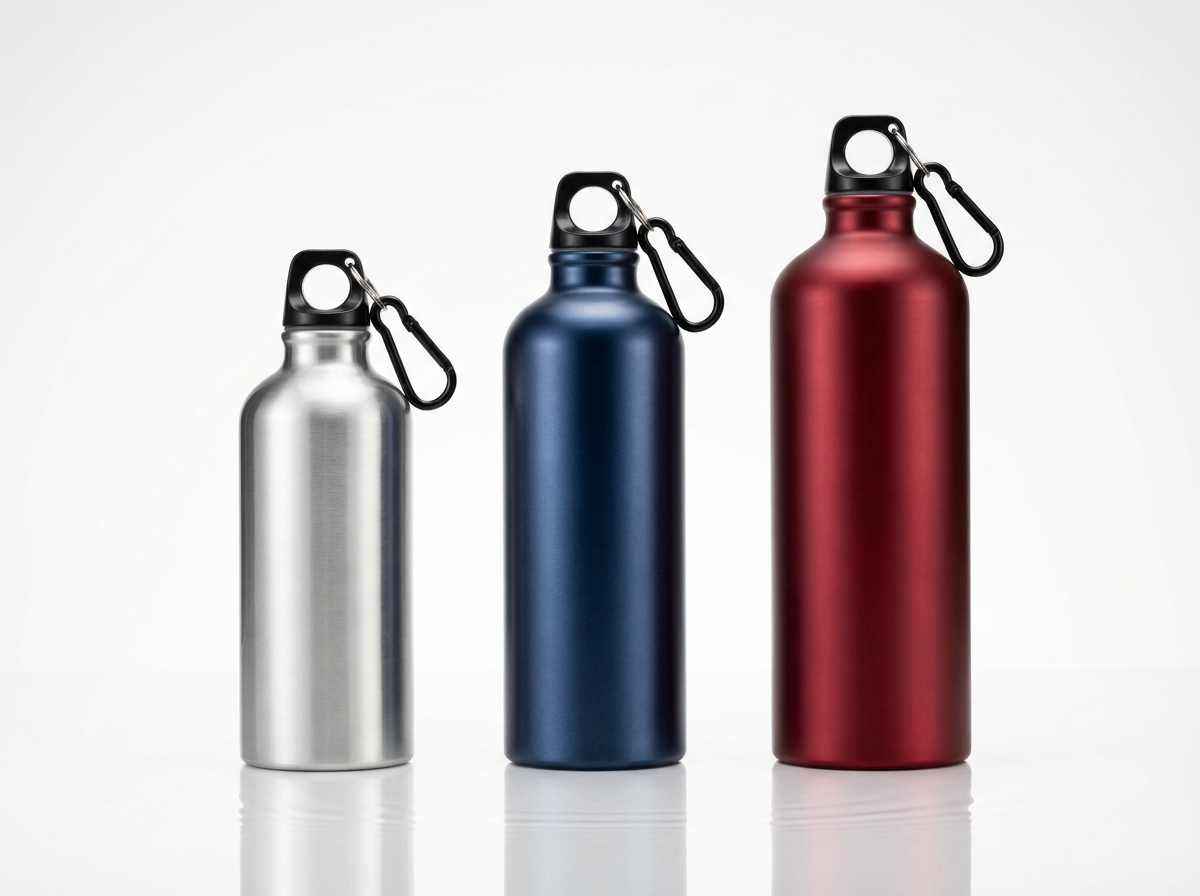
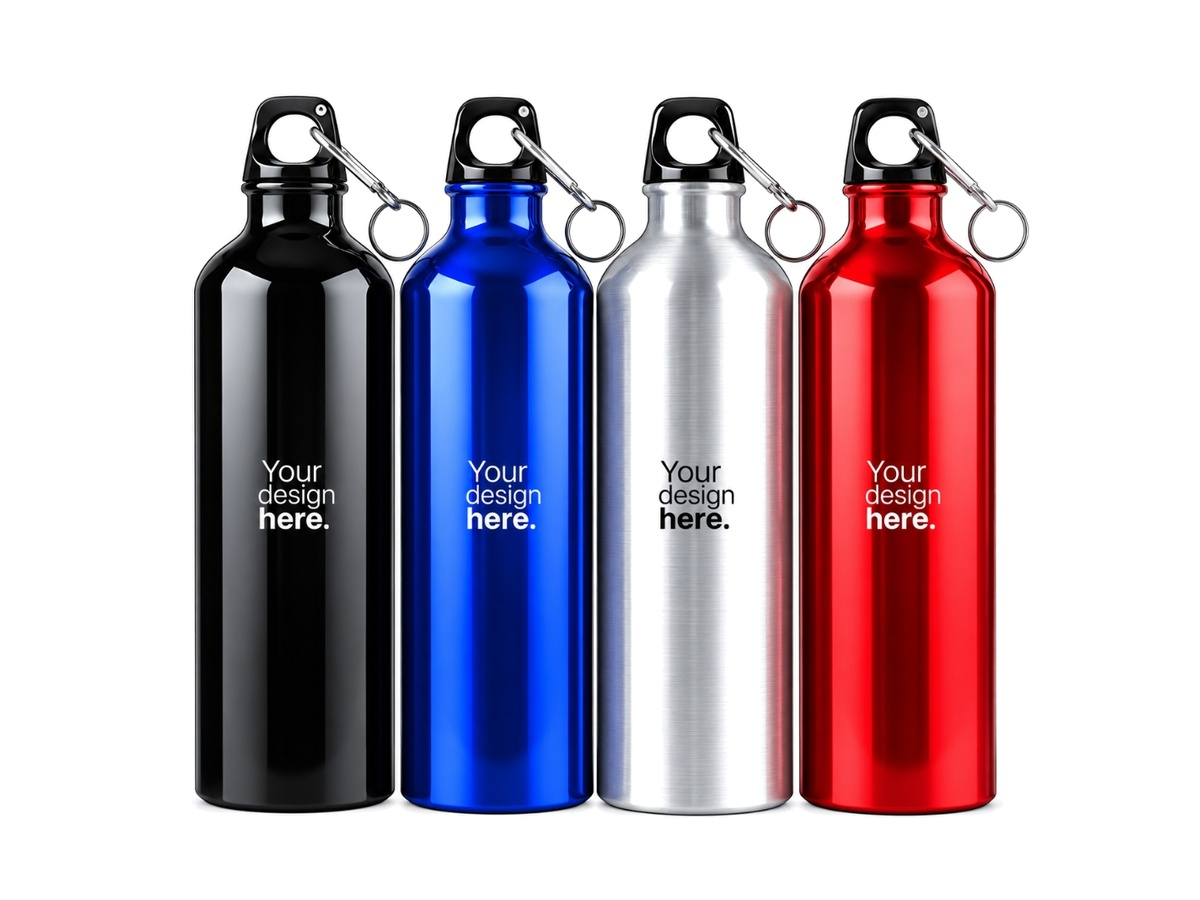
fix: update sports and lifestyle aluminium bottles image with 4-bottle carabiner lineup and perfect 2-column grid alignment

diff --git a/pages/products/water-bottles/index.html b/pages/products/water-bottles/index.html
@@ -167,7 +167,7 @@
         <p class="om-section-subtitle">Select a product type to view technical specifications, capacity ranges, and closure configurations.</p>
       </div>
 
-      <div class="om-products-grid">
+      <div class="om-products-grid om-products-grid-2">
 
         <!-- Product 1 -->
         <article class="om-product-card">
@@ -205,8 +205,8 @@
             <p class="om-product-desc">Ergonomic water packaging bottle engineered for gym, travel, sports, and outdoor activities.</p>
             <div class="om-product-sizes-preview">
               <span class="om-size-pill-mini">500ml - 750ml</span>
-              <span class="om-size-pill-mini">Ergonomic Grip</span>
-              <span class="om-size-pill-mini">Sports Pull Cap</span>
+              <span class="om-size-pill-mini">Multi-Colour Lineup</span>
+              <span class="om-size-pill-mini">Carabiner Loop Cap</span>
             </div>
             <div class="om-product-actions">
               <button type="button" class="om-btn-card-detail" data-open-product="water-sports-lifestyle">View Details</button>

diff --git a/data/products-data.js b/data/products-data.js
@@ -231,13 +231,13 @@ export const PRODUCTS = [
     id: 'water-sports-lifestyle',
     categorySlug: 'water-bottles',
     name: 'Sports & Lifestyle Aluminium Bottle',
-    shortDesc: 'Ergonomic water packaging bottle engineered for gym, travel, sports, and outdoor activities.',
+    shortDesc: 'Multi-colour aluminium sports bottles engineered for gym, athletic hydration, travel, and custom brand finishing.',
     sizes: ['500ml', '750ml'],
     image: 'assets/images/products/water-bottles/water-lifestyle.jpg',
     webp: 'assets/images/products/water-bottles/water-lifestyle.webp',
     material: 'BPA-Free Lined Aluminium',
-    finish: 'Brushed Aluminium',
-    closure: 'Flip-Up Sports Sipper Cap'
+    finish: 'Anodised Colour Lineup (Black, Blue, Silver, Red)',
+    closure: 'Carabiner Cap / Sports Stopper'
   },
 
   // 6. Dome Lights (8 verified products from Reference 2)

diff --git a/pages/products/attar-bottles/index.html b/pages/products/attar-bottles/index.html
@@ -167,7 +167,7 @@
         <p class="om-section-subtitle">Select a product type to view technical specifications, capacity ranges, and closure configurations.</p>
       </div>
 
-      <div class="om-products-grid">
+      <div class="om-products-grid om-products-grid-2">
 
         <!-- Product 1 -->
         <article class="om-product-card">

diff --git a/pages/products/perfume-bottles/index.html b/pages/products/perfume-bottles/index.html
@@ -167,7 +167,7 @@
         <p class="om-section-subtitle">Select a product type to view technical specifications, capacity ranges, and closure configurations.</p>
       </div>
 
-      <div class="om-products-grid">
+      <div class="om-products-grid om-products-grid-2">
 
         <!-- Product 1 -->
         <article class="om-product-card">

diff --git a/pages/products/products.css b/pages/products/products.css
@@ -445,6 +445,12 @@
   margin-bottom: 56px;
 }
 
+.om-products-grid.om-products-grid-2,
+.om-products-grid:has(> :nth-child(2):last-child) {
+  grid-template-columns: repeat(2, minmax(0, 520px));
+  justify-content: center;
+}
+
 .om-product-card {
   display: flex;
   flex-direction: column;

diff --git a/pages/contact/contact.css b/pages/contact/contact.css
@@ -1228,3 +1228,4 @@
     justify-content: center;
   }
 }
+

diff --git a/pages/contact/contact.js b/pages/contact/contact.js
@@ -218,3 +218,4 @@ ${compVal}`;
     });
   });
 }
+
